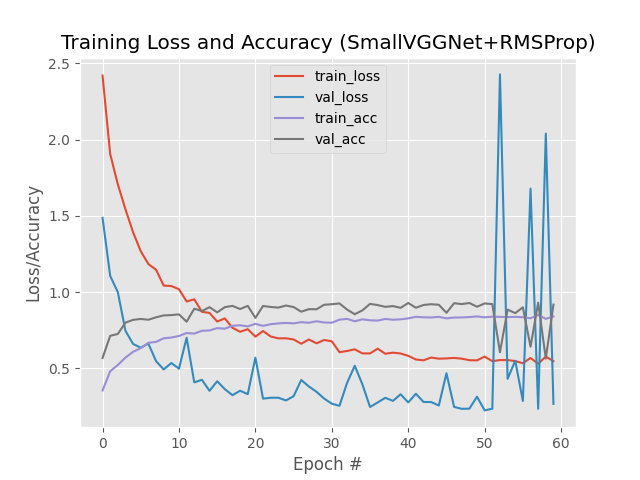
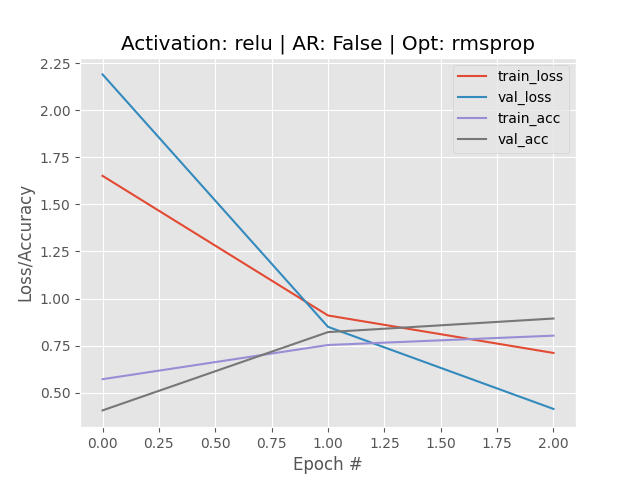
Updates parameter settings for the recognizer

diff --git a/character_recognizer/train_vgg.py b/character_recognizer/train_vgg.py
@@ -32,12 +32,14 @@ from tensorflow.keras import backend as K
 class SmallVGGNet:
 	@staticmethod
 	def build(width, height, depth, classes):
+
 		# initialize the model along with the input shape to be
 		# "channels last" and the channels dimension itself
 		model = Sequential()
 		inputShape = (height, width, depth)
 		activation = cfg.activation
 		chanDim = -1
+
 		# if we are using "channels first", update the input shape
 		# and channels dimension
 		if K.image_data_format() == "channels_first":
@@ -48,44 +50,56 @@ class SmallVGGNet:
 		model.add(Conv2D(32, (3, 3), padding="same",
 			input_shape=inputShape))
 		model.add(Activation(activation))
-		#model.add(BatchNormalization(axis=chanDim))
+		if cfg.batch_norm:
+			model.add(BatchNormalization(axis=chanDim))
 		model.add(MaxPooling2D(pool_size=(2, 2)))
-		#model.add(Dropout(0.25))
+		if cfg.dropout:
+			model.add(Dropout(cfg.drop_hidden))
         
 # (CONV => RELU) * 2 => POOL layer set
 		model.add(Conv2D(64, (3, 3), padding="same"))
 		model.add(Activation(activation))
-		model.add(BatchNormalization(axis=chanDim))
+		if cfg.batch_norm:
+			model.add(BatchNormalization(axis=chanDim))
 		model.add(Conv2D(64, (3, 3), padding="same"))
 		model.add(Activation(activation))
-		model.add(BatchNormalization(axis=chanDim))
+		if cfg.batch_norm:
+			model.add(BatchNormalization(axis=chanDim))
 		model.add(MaxPooling2D(pool_size=(2, 2)))
-		model.add(Dropout(0.25))
+		if cfg.dropout:
+			model.add(Dropout(cfg.drop_hidden))
 
 
 # (CONV => RELU) * 3 => POOL layer set
 		model.add(Conv2D(128, (3, 3), padding="same"))
 		model.add(Activation(activation))
-		model.add(BatchNormalization(axis=chanDim))
+		if cfg.batch_norm:
+			model.add(BatchNormalization(axis=chanDim))
 		model.add(Conv2D(128, (3, 3), padding="same"))
 		model.add(Activation(activation))
-		model.add(BatchNormalization(axis=chanDim))
+		if cfg.batch_norm:
+			model.add(BatchNormalization(axis=chanDim))
 		model.add(Conv2D(128, (3, 3), padding="same"))
 		model.add(Activation(activation))
-		model.add(BatchNormalization(axis=chanDim))
+		if cfg.batch_norm:
+			model.add(BatchNormalization(axis=chanDim))
 		model.add(MaxPooling2D(pool_size=(2, 2)))
-		model.add(Dropout(0.25))
+		if cfg.dropout:
+			model.add(Dropout(cfg.drop_hidden))
 
 # first (and only) set of FC => RELU layers
 		model.add(Flatten())
 		model.add(Dense(512))
 		model.add(Activation(activation))
-		model.add(BatchNormalization())
-		model.add(Dropout(0.5))
+		if cfg.batch_norm:
+			model.add(BatchNormalization())
+		if cfg.dropout:
+			model.add(Dropout(cfg.drop_output))
 		
 		# softmax classifier
 		model.add(Dense(classes))
 		model.add(Activation("softmax"))
+
 		# return the constructed network architecture
 		return model
 
@@ -136,7 +150,7 @@ for imagePath in imagePaths:
 	# data list
 
 	# Resizes images to 64x64 while keeping aspect ratio
-	if cfg.aspect_ratio:		
+	if cfg.maintain_aspect_ratio:		
 		image = np.array(Reformat_Image(imagePath))
 		image = image[:, :, ::-1].copy()
 	else:
@@ -208,7 +222,7 @@ plt.plot(N, H.history["loss"], label="train_loss")
 plt.plot(N, H.history["val_loss"], label="val_loss")
 plt.plot(N, H.history["accuracy"], label="train_acc")
 plt.plot(N, H.history["val_accuracy"], label="val_acc")
-plt.title(f"Activation: {cfg.activation} | AR: {cfg.aspect_ratio} | Opt: {cfg.optimizer}")
+plt.title(f"Activation: {cfg.activation} | AR: {cfg.maintain_aspect_ratio} | Opt: {cfg.optimizer}")
 plt.xlabel("Epoch #")
 plt.ylabel("Loss/Accuracy")
 plt.legend()

diff --git a/character_recognizer/cfg.py b/character_recognizer/cfg.py
@@ -1,7 +1,15 @@
-aspect_ratio = False
+# Image parameters
+maintain_aspect_ratio = False
 activation = "relu"
 optimizer = "rmsprop"
 
-epochs = 30
+# Regularization
+batch_norm = True
+dropout = True
+drop_hidden = 0.25
+drop_output = 0.5
+
+# Hyperparameters
+epochs = 3
 init_learning_rate = 0.01
 batch_size = 32
